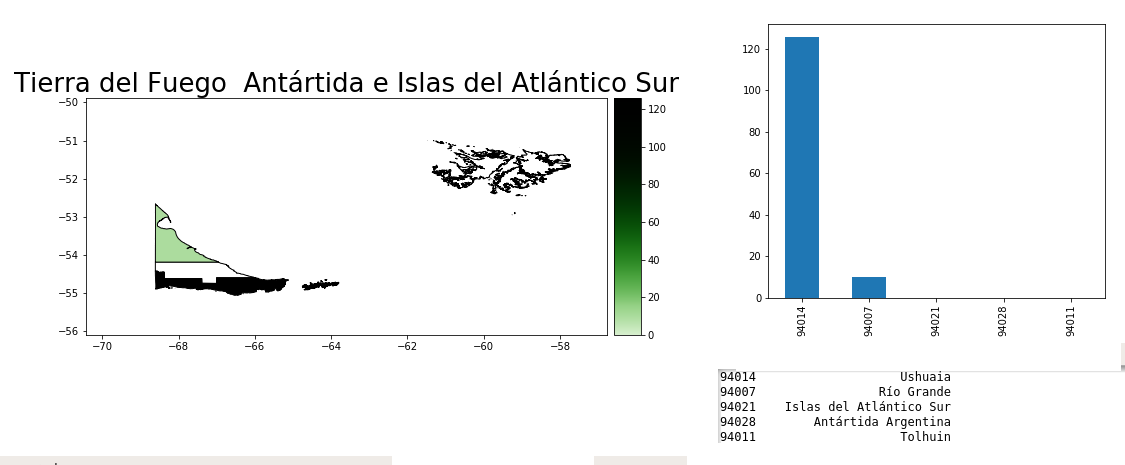
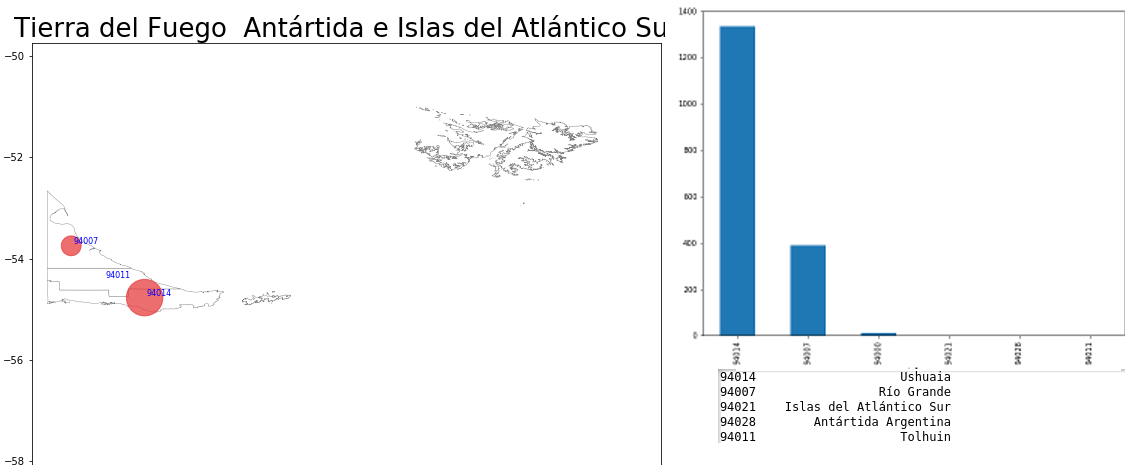
Diagramas de burbujas

diff --git a/programas/Graficos.py b/programas/Graficos.py
@@ -5,31 +5,37 @@ Created on Sun Jul  5 23:40:51 2020
 
 @author: fernando
 """
+import pandas as pd
 
-Data=pd.read_csv(filepath1)
+
+########### Ejemplo 1, Grafico area de casos diarios y muertes###############
+Data=pd.read_csv('Data/Epidemic/Covid19Casos.csv')
 I1=Data.clasificacion_resumen=='Confirmado'
 I2=Data.fallecido=='SI'
 DataM=Data[I1 & I2]
 DataC=Data[I1]
-J=DataC[['id_evento_caso','fecha_apertura']].groupby('fecha_apertura').count().rename(columns={'id_evento_caso':'confirmado_diario'})
-H=DataM[['id_evento_caso','fecha_fallecimiento']].groupby('fecha_fallecimiento').count().rename(columns={'id_evento_caso':'muertes_diarias'})
-H.index=pd.to_datetime(H.index)
-J.index=pd.to_datetime(J.index)
+J0=DataC[['id_evento_caso','fecha_apertura']].groupby('fecha_apertura')
+J1=J0.count().rename(columns={'id_evento_caso':'confirmado_diario'})
+H0=DataM[['id_evento_caso','fecha_fallecimiento']].groupby('fecha_fallecimiento')
+H1=H0.count().rename(columns={'id_evento_caso':'muertes_diarias'})
+H1.index=pd.to_datetime(H1.index)
+J1.index=pd.to_datetime(J1.index)
 fig, axs = plt.subplots(figsize=(8,8))
 plt.yscale('log')
-J.plot.area(ax=axs)
-H.plot.area(ax=axs)
+J1.plot.area(ax=axs)
+H1.plot.area(ax=axs)
 
-fig1, axs1 = plt.subplots(figsize=(8,8))
 
+############# Ejemplo 2 Histogramas edades
 DataM.hist('edad',bins=range(100))
-DataM.sexo.value_counts().plot.pie(ax=axs1)
+
+#########3###Ejemplo 3, diagrama torta de sexos
+DataM.sexo.value_counts().plot.pie()
 
 
-fig2, axs2 = plt.subplots(figsize=(8,8))
-DataM_fe=DataM.fecha_fallecimiento.value_counts()
-DataM_fe.sort_index().plot(Marker='o',ax=axs2)
 
+#############  Ejemplo 4, Analisis de edad media muertes
 fig3, axs3 = plt.subplots(figsize=(8,8))
 DataM_g=DataM.groupby('fecha_fallecimiento').mean()
+DataM_g.edad.plot(ax=axs3)
 DataM_g.edad.rolling(20, center=True).mean().plot(ax=axs3)

diff --git a/README.md b/README.md
@@ -6,39 +6,46 @@ Se proveen dos modulos, uno de modelización y uno de visualización.
 
 * FitSEIR.py: contiene varias funciones con la finalidad de descargar datos mundiales y Argentinos ([Ministerio de Salud de la República Argentina](https://www.argentina.gob.ar/salud)), actualizados sobre la pandemia de COVID-19 y ajustar los parámetros de   un modelo SEIR a estos datos.
 
-* MapCOVID.py: contiene funciones para mostrar en mapas la situación de la pandemia en la República Argentina.
+* MapaCOVID.py: contiene funciones para mostrar en mapas la situación de la pandemia en la República Argentina.
 
 <h2> Módulo de visualización </h2>
 
-**Ejemplo de uso**
+<h3>Función Mapa COVID</h3>
+
+    >>MapaCOVID(Provincia,campo=None,tipo="burbuja", fecha=None)
+
+Hace un mapa de la provincia dividida por departamentos en indica
+cantidad de casos confirmados con diagramas de burbuja o con un
+mapa colorpléctico.
+
+<h4>Parametros:</h4>
+
+* **Provincia:** str. Nombre de una provincia Argentina
+
+* **campo:** str. Si campo=None se consideran todas las entradas de la base correspondiendo a todos los test realizados. Si campo="confirmado", se cuentan los casos confirmados. Valor por defecto None
+
+* **tipo:** str. Tipo del gráfico "burbuja" o "colorpléctico".Valor por defecto "Burbuja"
+
+* **fecha:** tuple o None. Si fecha = None se consideran todos
+los casos, si fecha=("AAAA-MM-DD", "aaaa-mm-dd") se
+consideran los casos de entre las fechas estipuladas.
+Debe ser "AAAA-MM-DD"<= "aaaa-mm-dd". Valor por defecto
+None.
+
+<h4>Retorna:</h4> Mapa con distribución de casos o test. Diagrama de barras con cantidad de casos pr departamento. código y denominación de los departamentos.
 
 En todos los ejemplos debajo se asume que estamos en una terminal o consola de comandos posicionados en el directorio donde se descargaron los archivos. Se recomienda tener actualizada la base de datos de contagios como se señala en la sección [Datos Nacionales](#item1).
 
-Para importar la función principal.
+    >> from MapaCOVID import MapaCOVID
+    >> MapaCOVID("AMBA",campo='confirmado',fecha=('2020-07-01','2020-07-10'))
 
-    >> from MapCOVID import MapaCOVID
-
-Para confeccionar un mapa de casos confirmados acumulados
-
-    >> MapaCOVID(Provincia,campo='confirmado')
-
-donde "Provincia" indica el nombre de una provincia Argentina o la región del AMBA. El resultado es el siguiente
+El resultado es el siguiente
 
 ![AMBA-confirmados](Imagenes/EjemplosMapas.png)
 
-Se muestra la distribución geográfica de los casos confirmados acumulados de la provincia distinguiendo cromáticamente departamentos acorde a la cantidad de contagios.
+Sin la asignación campo='confirmado' el mapa corresponde a todos los testeos realizados
 
-Llamando a la función con la opción fecha='AAAA-MM-DD' muestra los datos de la fecha consignada en 'AAAA-MM-DD'.
-
-    >> MapaContagios(Provincia,campo='confirmado',fecha='AAAA-MM-DD')
-
-Sin la asignación campo='confirmado' el mapa corresponde a todos los testeo realizados
-
-    >> MapaCOVID("Córdoba")
-
-![](Imagenes/EjemplosMapas2.png)
-
-    >> MapaCOVID("Tierra del Fuego  Antártida e Islas del Atlántico Sur",campo='confirmado')
+    >> MapaCOVID("Tierra del Fuego  Antártida e Islas del Atlántico Sur")
 
 ![](Imagenes/EjemplosMapas3.png)
 
